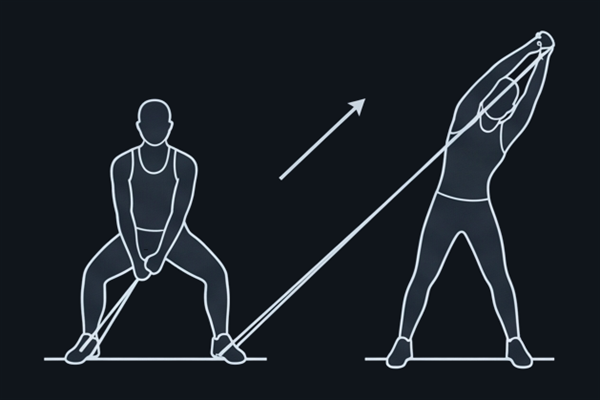
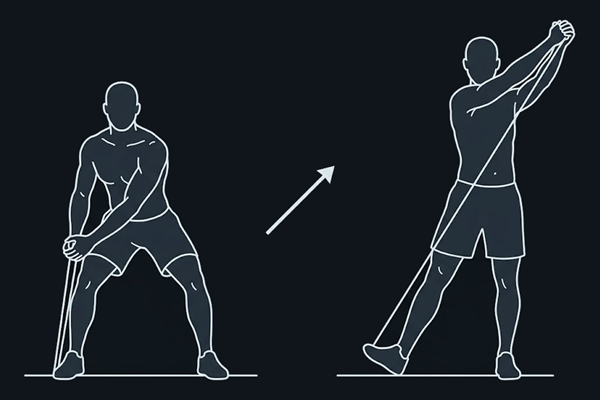
Nuevas ilustraciones de woodchopper y rotación torácica a cuatro patas

diff --git a/protocolo-12kg.html b/protocolo-12kg.html
@@ -766,7 +766,7 @@
       </details>
       <details class="ex">
         <summary><span class="ex-icon n"><svg viewBox="0 0 100 100" fill="none" stroke="currentColor" stroke-width="15" stroke-linecap="round" stroke-linejoin="round"><circle cx="26" cy="44" r="13" fill="currentColor" stroke="none"/><polyline points="30,50 45,65"/><polyline points="45,65 65,70 78,66"/><g style="transform-origin:32px 52px; animation: sway 1.4s ease-in-out infinite;"><polyline points="32,52 15,58"/><path d="M32,52 Q45,35 50,25" stroke-dasharray="3 5"/></g></svg></span>Rotaciones torácicas — 8 / lado <span class="chev">▸</span></summary>
-        <div class="exbody"><div class="ex-photo-wrap"><img class="ex-photo" src="images/thoracic-rotation.png" alt="Rotaciones torácicas"></div><p>Tumbado de lado, rodillas flexionadas al frente, abre el brazo de arriba rotando el pecho hacia el techo siguiendo la mano con la mirada.</p></div>
+        <div class="exbody"><div class="ex-photo-wrap"><img class="ex-photo" src="images/thoracic-rotation.png" alt="Rotaciones torácicas"></div><p>A cuatro patas, con las manos justo debajo de los hombros y las rodillas debajo de las caderas. Lleva una mano detrás de la cabeza, con los dedos en la nuca, y baja ese codo hacia el brazo de apoyo.</p><p>Desde ahí, gira el pecho abriéndote hacia el lado del codo libre hasta que apunte al techo, siguiéndolo con la mirada. Las caderas y la mano de apoyo no se mueven: el giro sale solo de la parte alta de la espalda. Vuelve despacio y repite.</p></div>
       </details>
     </div>
   </section>

diff --git a/entrenamiento.html b/entrenamiento.html
@@ -417,7 +417,7 @@
     "shoulder-taps": "<p>En plancha alta con los pies algo más separados de lo habitual para más estabilidad, lleva una mano a tocar el hombro contrario y vuelve a apoyarla en el suelo, alternando lados sin que la cadera se balancee de un lado a otro.</p><p>Es anti-rotación, igual que el Pallof press del Día B, pero en posición de plancha — y sin ningún equipo.</p>",
     "hip-flexor-stretch": "<p>Postura de zancada baja (una rodilla en el suelo), empuja la cadera hacia delante sin arquear la espalda. Libera la tensión que acumula la cadera tras swings y squats.</p>",
     "hamstring-stretch": "<p>Sentado o de pie, pierna extendida, inclínate hacia delante desde la cadera sin redondear en exceso la espalda baja.</p>",
-    "thoracic-rotation": "<p>Tumbado de lado, rodillas flexionadas al frente, abre el brazo de arriba rotando el pecho hacia el techo siguiendo la mano con la mirada.</p>"
+    "thoracic-rotation": "<p>A cuatro patas, con las manos justo debajo de los hombros y las rodillas debajo de las caderas. Lleva una mano detrás de la cabeza, con los dedos en la nuca, y baja ese codo hacia el brazo de apoyo.</p><p>Desde ahí, gira el pecho abriéndote hacia el lado del codo libre hasta que apunte al techo, siguiéndolo con la mirada. Las caderas y la mano de apoyo no se mueven: el giro sale solo de la parte alta de la espalda. Vuelve despacio y repite.</p>"
   };
 
   // Seconds per rep, used only for the orientative rep countdown ring
